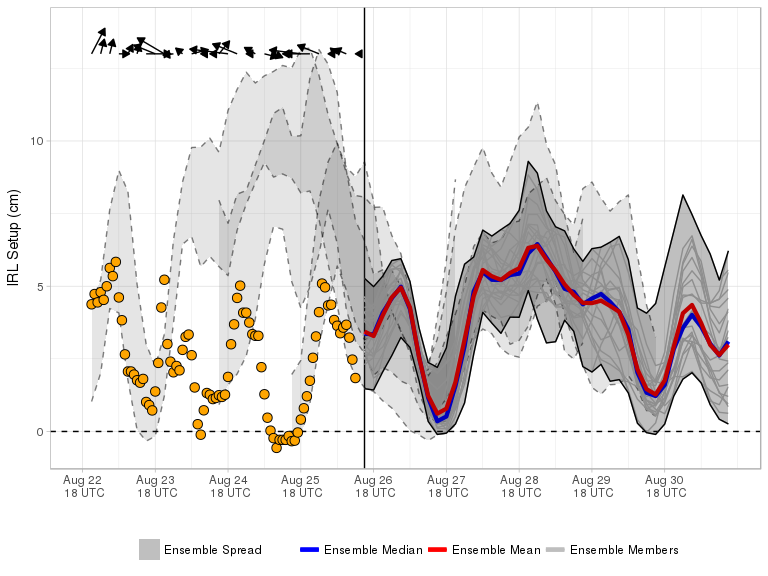
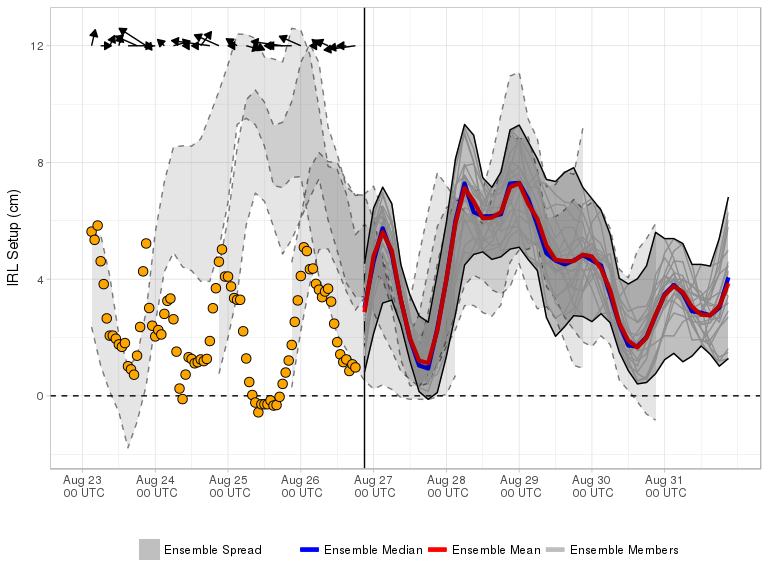
Forecast Update

diff --git a/docs/index.md b/docs/index.md
@@ -1,9 +1,9 @@
-Current Forecast 2018-08-26, Cycle 06 UTC
+Current Forecast 2018-08-26, Cycle 12 UTC
 -----------------------------------------
 
 [![](img/raw_setup.png)](https://fit-winds.github.io/IRLSetup/img/raw_setup.png)
 
-> Forecast valid 2018-08-26 08:32:11.
+> Forecast valid 2018-08-26 14:33:35.
 
 Explanation
 -----------
@@ -23,7 +23,7 @@ Ensemble Forecast System
 cycles. Calculation of the IRL setup is performed shortly after a new
 GEFS cycle is made available on the [data access
 link](http://www.ftp.ncep.noaa.gov/data/nccf/com/gens/prod/). The
-current cycle 2018-08-26 06 UTC 0.5° GEFS mean and median forecasts of
+current cycle 2018-08-26 12 UTC 0.5° GEFS mean and median forecasts of
 setup are represented by the red and blue curves, respectively. Ensemble
 spread from the current and three previous GEFS runs are shaded grey and
 bounded by solid and dashed curves, respectively.
